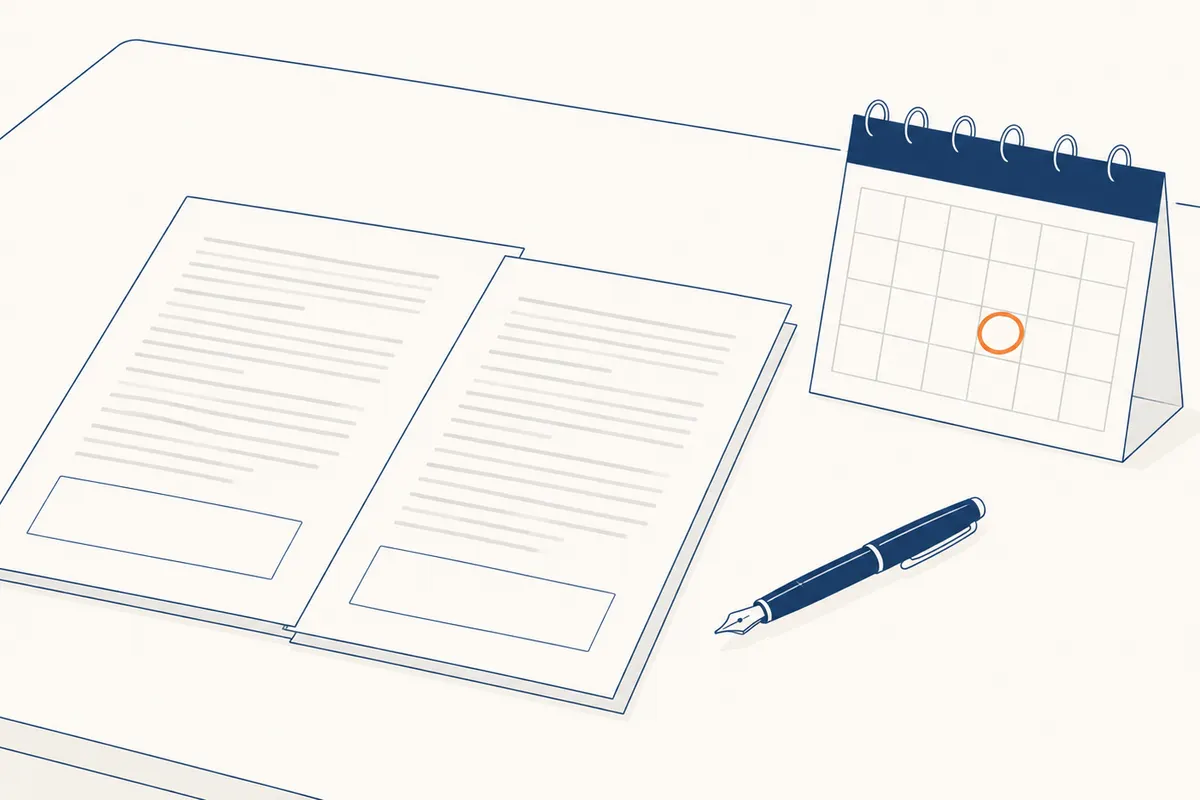
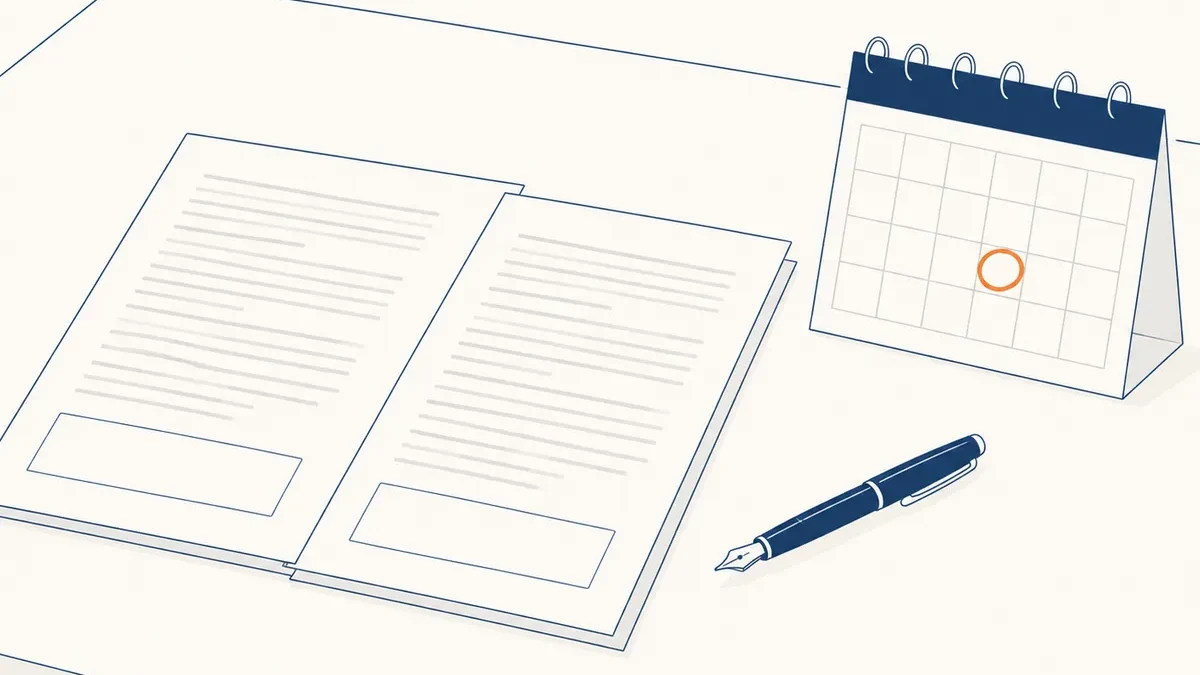
fix(images): 記事サムネイル22件を16:9へ再トリミングする
## 何が起きていたか
item35の実測レンダリング検査で、記事ヒーロー画像に
ITEM35_IMAGE_CROP_RISK(cropPct=15.6、axis=vertical)が
320/375/768pxの全幅で検出されていた。

## 原因
表示側の`.article-hero-image`(styles/globals.css)は
`aspect-ratio: 16/9` + `object-fit: cover`だが、
サムネイル画像22件すべてが1200x800(3:2)のままだった。
比率のズレによりブラウザ側で上下あわせて15.6%が
切り落とされていた。特定記事ではなく全記事共通の問題。

エージェント定義側にも不整合があり、image-placerは
16:9を規格としている一方、image-selectorは「3:2で統一」と
記載していた。これが3:2素材を作り続ける原因になっていた。

## 対応
- サムネイル22件を1200x675(16:9)へ中央クロップ。
  元素材が1200幅のため、規格の1536x864へは拡大しない
  (画質は上がらずファイルサイズだけ増えるため。
  表示枠は最大720pxなので解像度は足りている)
- image-selector.md の「1536x1024(3:2)で統一」を16:9へ修正し、
  image-placer側の規格と一致させる
- image-placer.md に今回の一括変換の記録と、
  元素材より大きい規格へアップスケールしない旨を追記

## 検証
全13記事×幅320/375/768pxで item35 --strict を実行し、
画像クロップリスク0件(他の検出項目もすべて0件)。

diff --git a/.claude/agents/image-selector.md b/.claude/agents/image-selector.md
@@ -41,7 +41,7 @@ model: sonnet
   - compareScrollは横スクロールユニット内で完結する比較表現のため、団子判定上は「1つの視覚要素」として扱う(`docs/CONTRIBUTING.md` 25節(g)参照)
 - 人物を描く場合、記事テーマと矛盾する構図を避ける(例: ダイエット・体重管理系記事で、お腹を抱えるポーズやゆったりしたシルエットが「妊娠」を想起させていないか)
 - 写真調かイラスト調かを明記する(記事・サイト全体のトーンに合わせ、特に指定がなければ既存のライブラリ画像に合わせて写真調とする)
-- **アスペクト比・推奨サイズを明記する。** 既存のサムネイル・本文画像(`public\images\articles\`配下)は概ね1536×1024px(3:2)で統一されているため、既存ファイルの実寸を確認した上でプロンプトに含める
+- **アスペクト比・推奨サイズを明記する。** サムネイルの規格は**1536×864px(16:9)**。表示側の`.article-hero-image`(styles/globals.css)が`aspect-ratio: 16/9` + `object-fit: cover`のため、3:2素材では上下あわせて15.6%がブラウザ側で切り落とされ、item35の`IMAGE_CROP_RISK`で検出される。生成プロンプトには必ず16:9を明記すること(image-placer側の規格と一致させる)
 - **保存先ファイル名を明記する。** 命名規則はサムネイルが`{記事slug}.webp`、本文画像が`{記事slug}_body1.webp`/`_body2.webp`。生成物は通常PNG/JPEGになるため、配置前にWebP変換が必要な旨も添える
 
 # 出力ファイル
